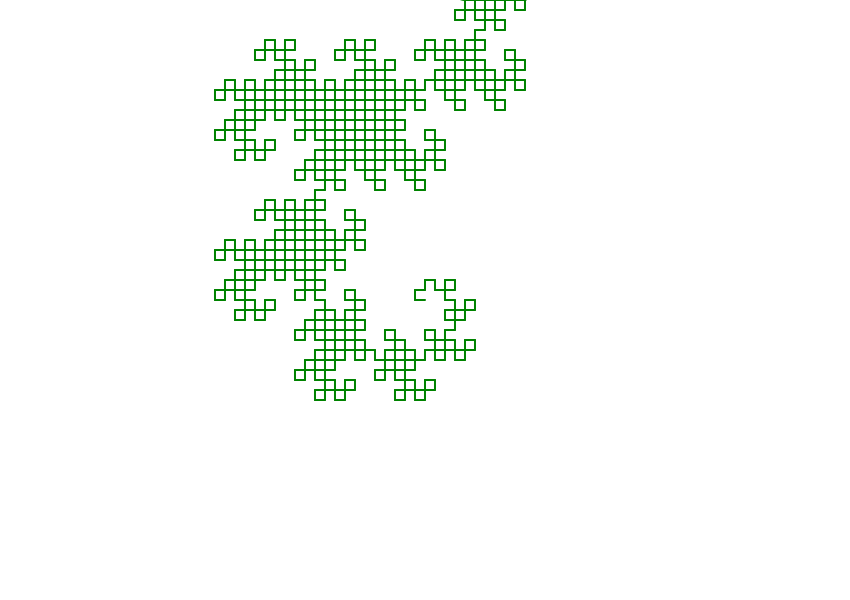
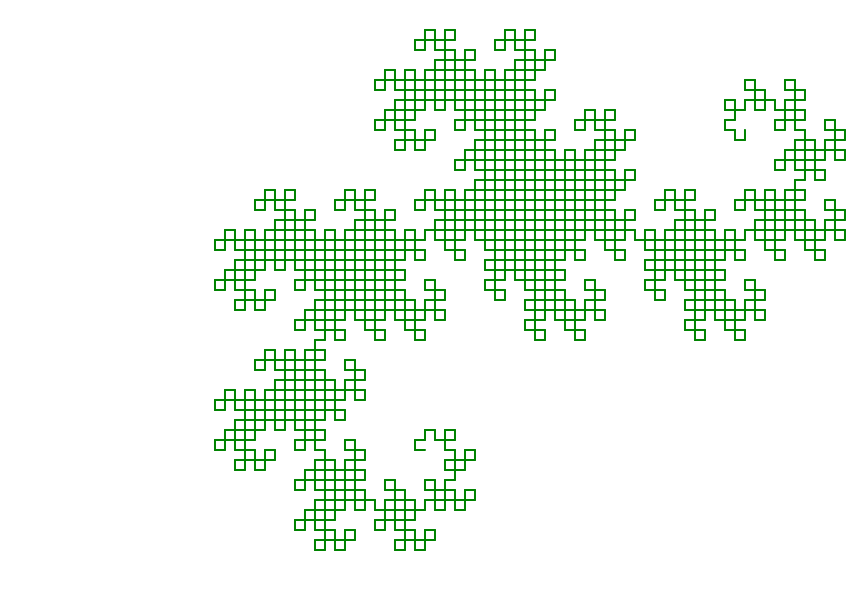
Change production rules, padding to images

Changed region(s): [[0.2447, 0.0, 1.0, 0.93], [0.4894, 0.15, 0.52, 0.18]]

diff --git a/models/lsystem.go b/models/lsystem.go
@@ -117,12 +117,12 @@ func KochCurve(n int) LSystem {
 // DragonCurve will return an DragonCurve LSystem
 func DragonCurve(n int) LSystem {
 	lSystem := LSystem{
-		variables: []string{"X", "Y"},
+		variables: []string{"A", "B"},
 		constants: []string{"F", "+", "-"},
-		axiom:     "FX",
+		axiom:     "FA",
 		rules: map[string]string{
-			"X": "X+YF+",
-			"Y": "-FX-Y",
+			"A": "A+BF+",
+			"B": "-FA-B",
 		},
 		N:     n,
 		c:     0,
@@ -136,7 +136,7 @@ func DragonCurve(n int) LSystem {
 // FractalPlant will return an FractalPlant LSystem
 func FractalPlant(n int) LSystem {
 	lSystem := LSystem{
-		variables: []string{"X", "F"},
+		variables: []string{"X", "A"},
 		constants: []string{"+", "-", "<", ">"},
 		axiom:     "X",
 		rules: map[string]string{

diff --git a/main.go b/main.go
@@ -25,11 +25,13 @@ func main() {
 	sierpinskiArrowHead := models.SierpinskiArrowHead(6)
 	turtlegraph.DrawLSystem(sierpinskiArrowHead, canvas.OriginBottomRight(), "images/sArrowhead.png")
 
-	dragonCurve := models.DragonCurve(10)
-	turtlegraph.DrawLSystem(dragonCurve, canvas.OriginCenter(), "images/dragonCurve.png")
-
+	canvas.Padding = 20
 	fractalPlant := models.FractalPlant(4)
 	turtlegraph.DrawLSystem(fractalPlant, canvas.OriginBottomCenter(), "images/fractalplant.png")
+
+	canvas.Padding = 150
+	dragonCurve := models.DragonCurve(10)
+	turtlegraph.DrawLSystem(dragonCurve, canvas.OriginBottomCenter(), "images/dragonCurve.png")
 
 	// Generate an image for the README.md
 	canvas = models.Canvas{
